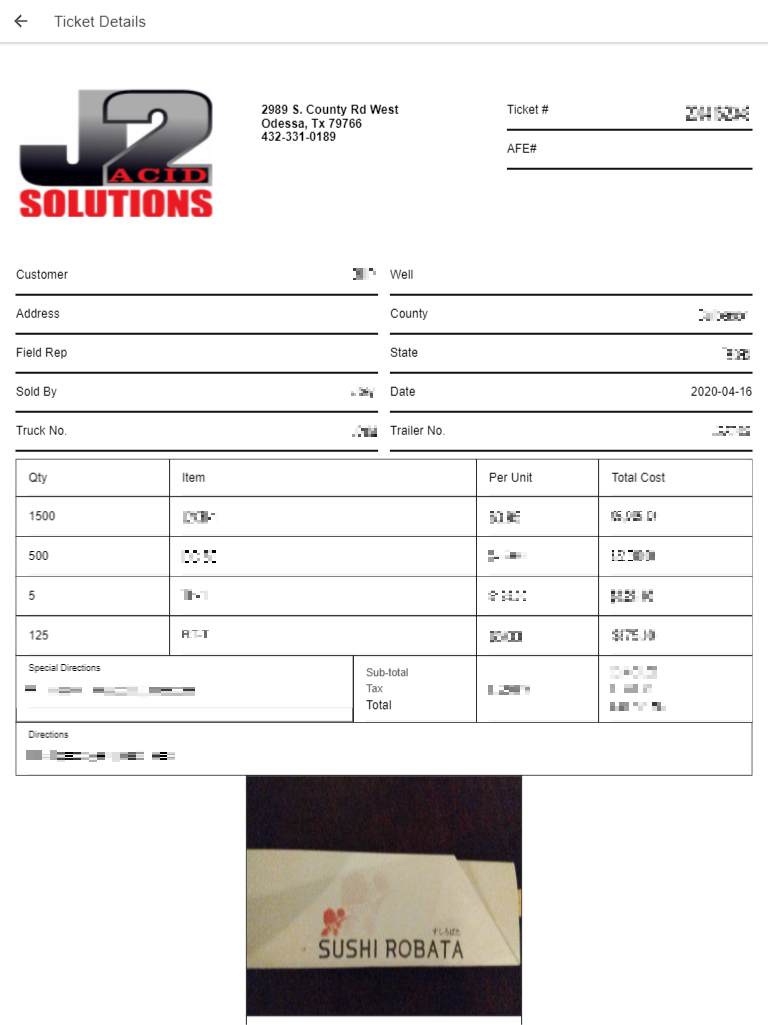
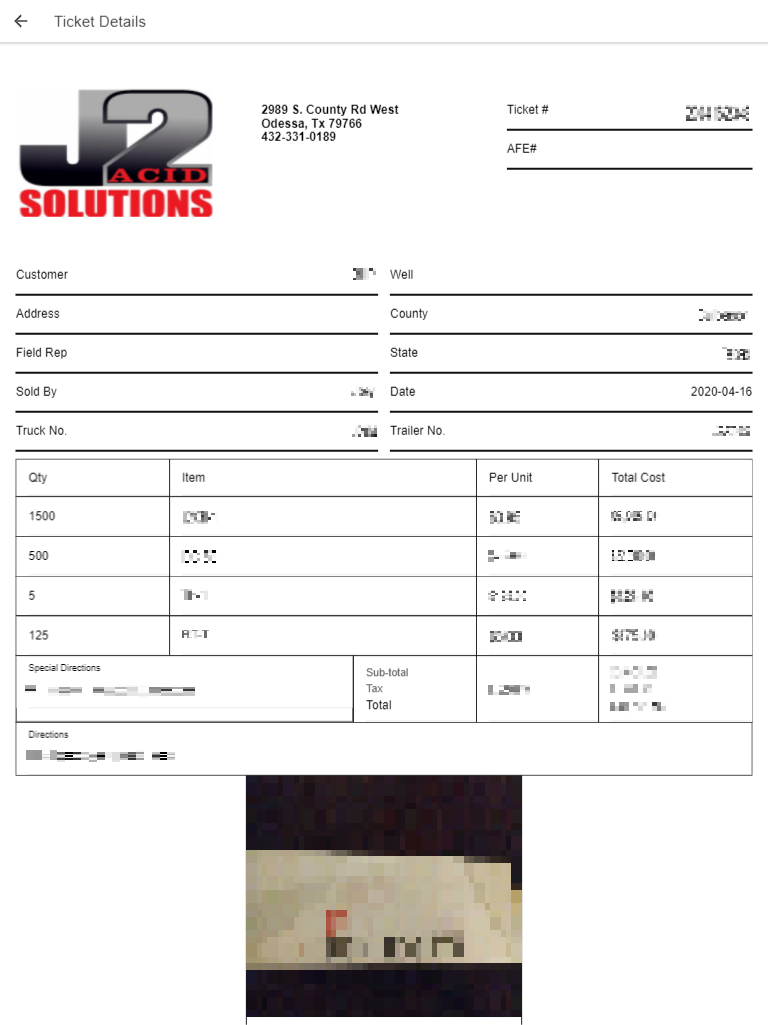
Minor CSS Updates
Added favicon and menu icon.
Removed references to Ion Icons to speed up loading time.

Updated list bullets in projects to match the ones in skills.

Blurred ticket stamp image.

Changed region(s): [[0.3125, 0.8429, 0.6875, 0.9678], [0.4062, 0.8117, 0.5312, 0.8429], [0.5938, 0.8117, 0.6562, 0.8429]]

diff --git a/public/index.html b/public/index.html
@@ -5,16 +5,12 @@
     <title>KamenRiderDev - A Full Stack Web Developer</title>
     <script src="https://kit.fontawesome.com/9e69960a60.js" crossorigin="anonymous"></script>
     <meta name="viewport" content="width=device-width,initial-scale=1.0" />
+    <link rel="icon" type="image/png" href="./assets/icons/panda_white.png">
     <link rel="stylesheet" href="./flickity/flickity.min.css">
     <link href="./styles.css" rel="stylesheet" />
   </head>
   <body>
-    <ion-icon
-      class="burger-button link"
-      id="side-bar-icon"
-      name="menu-sharp"
-      size="large"
-    ></ion-icon>
+    <img height="500" width="500" class="burger-button logo" id="side-bar-icon" alt="Panda Logo" src="assets/icons/panda_white.png">
     <nav>
       <div id="side-bar">
         <ul id="nav-list">
@@ -56,10 +52,10 @@
         <div class="about-text">
           <h2>Who am I?</h2>
           <p>
-            Hello, my name's Jesus Garcia, I'm over 18 years old and I'm a full stack
-            developer based in Odessa, Texas. I have my masters in Computer Science 
-            from the University of Texas of the Permian Basin, and my Bachelor's 
-            in Film and Digital Media from Baylor University.
+            Hello, my name's Jesus Garcia, I'm a software engineer based in 
+            Odessa, Texas. I have my masters in Computer Science from the 
+            University of Texas of the Permian Basin, and my Bachelor's in 
+            Film and Digital Media from Baylor University.
           </p>
           <p>
             I enjoy making things for the internet including websites, applications, 
@@ -186,6 +182,4 @@
   </body>
   <script type="text/javascript" src="./flickity/flickity.pkgd.min.js"></script>
   <script type="text/javascript" src="main.js"></script>
-  <script type="module" src="https://unpkg.com/ionicons@5.0.0/dist/ionicons/ionicons.esm.js"></script>
-  <script nomodule="" src="https://unpkg.com/ionicons@5.0.0/dist/ionicons/ionicons.js"></script>
 </html>

diff --git a/public/styles.css b/public/styles.css
@@ -71,21 +71,40 @@ a {
   margin-top: 1.5rem;
 }
 
+
+ul {
+  list-style: none;
+  line-height: 1.5;
+  letter-spacing: 2px;
+}
+ul li {
+  position: relative;
+}
+
+ul li::before {
+  content: '';
+  position: absolute;
+  top: 20%;
+  left: -15px;
+  border-top: 8px solid transparent;
+  border-left: 8px solid var(--primary);
+  border-bottom: 8px solid transparent;
+  color: var(--primary);
+}
+
 /* Nav */
-.burger-button {
+#side-bar-icon {
   cursor: pointer;
   z-index: 999;
   position: fixed;
-  left: 0;
-  top: 0;
-  background: var(--backgound-color);
-  padding: 1.75vmin;
-  height: 40px;
-  width: 40px;
+  left: .5vw;
+  top: .5vh;
+  height: auto;
+  width: 3rem;
 }
 
-.burger-button:focus, .burger-button:hover {
-  box-shadow: 0 0 5px 5px var(--secondary);
+#side-bar-icon:focus, #side-bar-icon:hover {
+  filter: drop-shadow(0 0 5px var(--secondary));
 }
 
 #side-bar {
@@ -114,6 +133,10 @@ a {
   justify-content: space-evenly;
   align-items: center;
   font-size: 1.5rem;
+}
+
+#nav-list li::before {
+  content: unset;
 }
 
 .nav-link {  
@@ -183,27 +206,6 @@ a {
   justify-content: space-evenly;
 }
 
-.skills ul {
-  list-style: none;
-  line-height: 1.5;
-  letter-spacing: 2px;
-}
-
-.skills ul li {
-  position: relative;
-}
-
-.skills ul li::before {
-  content: '';
-  position: absolute;
-  top: 20%;
-  left: -15px;
-  border-top: 8px solid transparent;
-  border-left: 8px solid var(--primary);
-  border-bottom: 8px solid transparent;
-  color: var(--primary);
-}
-
 /* Projects */
 .tab-buttons {
   display: flex;
@@ -252,7 +254,7 @@ a {
 }
 
 .tools li {
-  list-style: none;
+  margin-left: 1rem;
 }
 
 .carousel {
@@ -304,22 +306,12 @@ a {
 }
 
 @media only screen and (min-width: 768px) {
-
-  h5, h4, h3, h2, h1, p, li {
-    font-size: 1.5rem;
-  }
-
   .content {
     width: 80%;
   }
 }
 
 @media only screen and (min-width: 1200px) {
-
-  h5, h4, h3, h2, h1, p, li {
-    font-size: 1rem;
-  }
-
   #side-bar {
     width: 30vw;
     left: -30vw;

diff --git a/public/main.js b/public/main.js
@@ -3,15 +3,8 @@ var menu = document.getElementById('side-bar');
 var navLinks = document.getElementsByClassName('nav-link');
 var tabs = document.getElementsByClassName('tab-content');
 
-document.getElementById('side-bar-icon').addEventListener('click', () => {   
-    if(menuButton.getAttribute('name') == 'menu-sharp'){
-        menuButton.setAttribute('name', 'close-sharp');
-        menu.classList.toggle('active');
-    }
-    else {
-        menuButton.setAttribute('name', 'menu-sharp');
-        menu.classList.toggle('active');
-    }
+document.getElementById('side-bar-icon').addEventListener('click', () => {
+    menu.classList.toggle('active');
 })
 
 for(const link of navLinks) {
